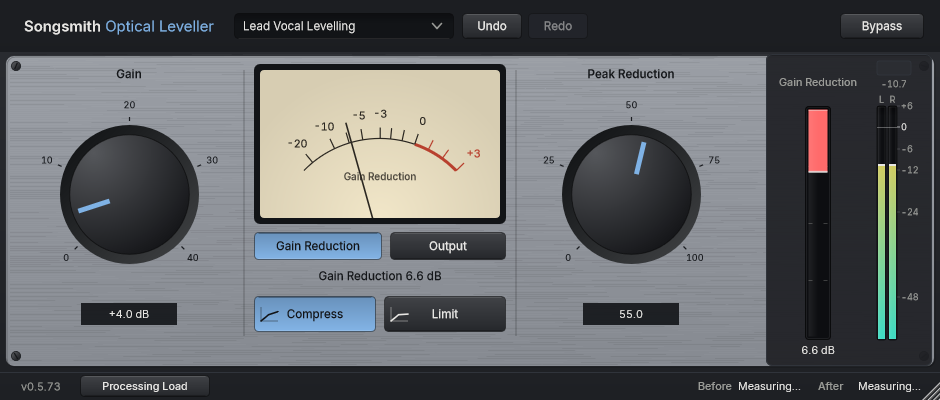
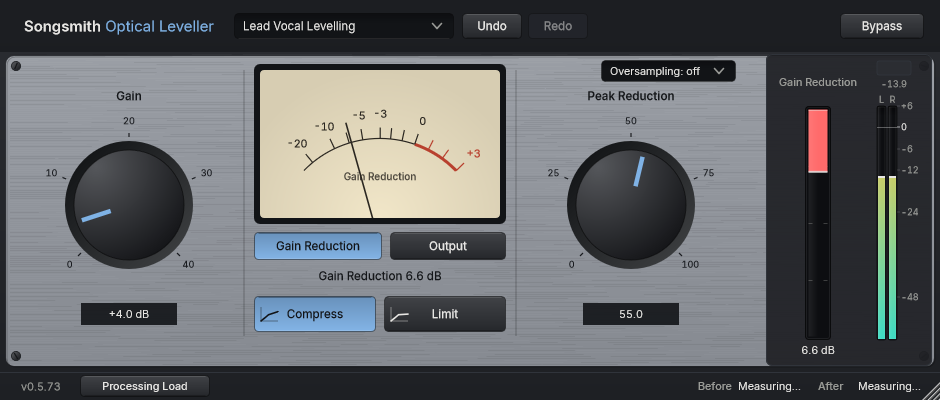
Optical Leveller: working Oversampling (Off, 2x, 4x) with reported latency (songsmithstudio#19)

diff --git a/optical-leveller/Source/PluginProcessor.cpp b/optical-leveller/Source/PluginProcessor.cpp
@@ -18,8 +18,9 @@ SongsmithOpticalLevellerProcessor::SongsmithOpticalLevellerProcessor()
     peakReductionRaw = apvts.getRawParameterValue (Opt::peakReductionId);
     gainRaw          = apvts.getRawParameterValue (Opt::gainId);
     modeRaw          = apvts.getRawParameterValue (Opt::modeId);
+    oversamplingRaw  = apvts.getRawParameterValue (Opt::oversamplingId);
     bypassParam      = dynamic_cast<juce::AudioParameterBool*> (apvts.getParameter (Opt::bypassId));
-    jassert (peakReductionRaw && gainRaw && modeRaw && bypassParam);
+    jassert (peakReductionRaw && gainRaw && modeRaw && oversamplingRaw && bypassParam);
 
     dryBuffer.setSize (2, 512, false, true);   // resized in prepareToPlay
 }
@@ -40,6 +41,9 @@ juce::AudioProcessorValueTreeState::ParameterLayout SongsmithOpticalLevellerProc
 
     layout.add (std::make_unique<juce::AudioParameterChoice> (
         juce::ParameterID { Opt::modeId, 1 }, "Mode", Opt::modeNames(), Opt::defaultMode));
+
+    layout.add (std::make_unique<juce::AudioParameterChoice> (
+        juce::ParameterID { Opt::oversamplingId, 2 }, "Oversampling", Opt::oversamplingNames(), Opt::defaultOversampling));
 
     layout.add (std::make_unique<juce::AudioParameterBool> (
         juce::ParameterID { Opt::bypassId, 1 }, "Bypass", false));
@@ -75,14 +79,51 @@ void SongsmithOpticalLevellerProcessor::prepareToPlay (double sampleRate, int sa
     bypassMix.reset (sampleRate, bypassFadeSeconds);
     bypassMix.setCurrentAndTargetValue (bypassParam->get() ? 1.0f : 0.0f);
 
-    engine.setParams (getEngineParams());
-    engine.prepare (sampleRate);
+    baseRate = sampleRate;
+    using OS = juce::dsp::Oversampling<float>;
+    for (size_t k = 1; k < oversamplers.size(); ++k)
+    {
+        if (oversamplers[k] == nullptr)
+            oversamplers[k] = std::make_unique<OS> ((size_t) SongsmithOptical::Engine::maxChannels, k, OS::filterHalfBandPolyphaseIIR, true, true);
+        oversamplers[k]->initProcessing ((size_t) dryBuffer.getNumSamples());
+        oversamplers[k]->reset();
+        osLatency[k] = juce::roundToInt (oversamplers[k]->getLatencyInSamples());
+    }
+    dryRing.setSize (2, juce::jmax (osLatency[1], osLatency[2]) + 1, false, true, true);
+    pathFade.reset (sampleRate, pathFadeSeconds);
+    pathFade.setCurrentAndTargetValue (1.0f);
+    switchPath (getOversamplingIndex());
     engine.setParams (getEngineParams());
     gainReductionDb.store (0.0f);
     outputMs.store (0.0f);
     outputMeter.channels.store (juce::jlimit (1, (int) Songsmith::UI::OutputMeterState::maxChannels, getMainBusNumOutputChannels()), std::memory_order_relaxed);
     outputMeter.resetLatch (sampleRate);   // a new session or layout starts without a warning
-    setLatencySamples (0);
+    updateLatencyNow();
+    startTimerHz (10);   // reports a changed latency to the host from the message thread, never the audio thread
+}
+
+SongsmithOpticalLevellerProcessor::~SongsmithOpticalLevellerProcessor()
+{
+    stopTimer();
+}
+
+void SongsmithOpticalLevellerProcessor::updateLatencyNow()
+{
+    const int latency = osLatency[(size_t) getOversamplingIndex()];
+    if (getLatencySamples() != latency)
+        setLatencySamples (latency);   // told to the host whenever it changes
+}
+
+// Switches the engine to the rate of an Oversampling setting. Allocation-free: only coefficients are re-derived.
+void SongsmithOpticalLevellerProcessor::switchPath (int index) noexcept
+{
+    engine.prepare (baseRate * (double) (1 << index));
+    engine.setParams (getEngineParams());
+    if (index > 0)
+        oversamplers[(size_t) index]->reset();
+    dryRing.clear();
+    dryRingPos = 0;
+    osActive = index;
 }
 
 void SongsmithOpticalLevellerProcessor::processBlock (juce::AudioBuffer<float>& buffer, juce::MidiBuffer&)
@@ -112,14 +153,71 @@ void SongsmithOpticalLevellerProcessor::processBlock (juce::AudioBuffer<float>& 
 
         float* ch[SongsmithOptical::Engine::maxChannels] = {};
         for (int c = 0; c < numCh; ++c)
-        {
             ch[c] = buffer.getWritePointer (c, pos);
-            juce::FloatVectorOperations::copy (dryBuffer.getWritePointer (c), ch[c], num);   // the dry signal, for bypass
+
+        // Oversampling change: fade out, switch once silent, fade back in (no clicks, nothing allocated).
+        const int wantOS = getOversamplingIndex();
+        if (wantOS != osActive)
+        {
+            if (! pathFade.isSmoothing() && pathFade.getCurrentValue() <= 0.0f)
+            {
+                switchPath (wantOS);
+                pathFade.setTargetValue (1.0f);
+            }
+            else
+            {
+                pathFade.setTargetValue (0.0f);
+            }
         }
 
+        // The dry signal for Bypass, delayed by the path's latency so it lines up with the processed one.
+        const int latency = osLatency[(size_t) osActive];
+        for (int c = 0; c < numCh; ++c)
+        {
+            auto* d = dryBuffer.getWritePointer (c);
+            if (latency == 0)
+            {
+                juce::FloatVectorOperations::copy (d, ch[c], num);
+                continue;
+            }
+            auto* ring = dryRing.getWritePointer (c);
+            const int size = dryRing.getNumSamples();
+            int w = dryRingPos;
+            for (int i = 0; i < num; ++i)
+            {
+                d[i] = ring[(w - latency + size) % size];
+                ring[w] = ch[c][i];
+                w = (w + 1) % size;
+            }
+        }
+        if (latency > 0)
+            dryRingPos = (dryRingPos + num) % dryRing.getNumSamples();
+
         // The engine always runs, even when bypassed, so un-bypassing never glitches.
-        engine.process (ch, numCh, num);
+        if (osActive == 0)
+        {
+            engine.process (ch, numCh, num);
+        }
+        else
+        {
+            auto& os = *oversamplers[(size_t) osActive];
+            juce::dsp::AudioBlock<float> block (ch, (size_t) numCh, (size_t) num);
+            auto up = os.processSamplesUp (block);
+            float* upCh[SongsmithOptical::Engine::maxChannels] = {};
+            for (int c = 0; c < numCh; ++c)
+                upCh[c] = up.getChannelPointer ((size_t) c);
+            engine.process (upCh, numCh, (int) up.getNumSamples());
+            os.processSamplesDown (block);
+        }
         reduction = juce::jmax (reduction, engine.readMaxReductionDb());
+
+        if (pathFade.isSmoothing() || pathFade.getTargetValue() < 1.0f)
+            for (int i = 0; i < num; ++i)
+            {
+                const float g = pathFade.getNextValue();
+                for (int c = 0; c < numCh; ++c)
+                    ch[c][i] *= g;
+            }
 
         if (bypassMix.isSmoothing())
         {

diff --git a/optical-leveller/Tests/OpticalLevellerTests.cpp b/optical-leveller/Tests/OpticalLevellerTests.cpp
@@ -112,8 +112,9 @@ public:
                 { "gain", 0.0f, 40.0f, 1.0f, "Gain" },
                 { "mode", 0.0f, 1.0f, 0.0f, "Mode" },
                 { "bypass", 0.0f, 1.0f, 0.0f, "Bypass" },
+                { "oversampling", 0.0f, 2.0f, 0.0f, "Oversampling" },
             };
-            expectEquals (p.getParameters().size(), (int) std::size (rows), "four parameters, no more");
+            expectEquals (p.getParameters().size(), (int) std::size (rows), "five parameters, no more");
             for (const auto& r : rows)
             {
                 auto* rp = dynamic_cast<juce::RangedAudioParameter*> (p.apvts.getParameter (r.id));
@@ -249,6 +250,57 @@ public:
             auto xml = a.createState().createXml();
             expect (xml->getChildByName ("UI") != nullptr, "the editor settings are saved");
             expectEquals (a.createState().getProperty ("stateVersion", 0).operator int(), SongsmithOpticalLevellerProcessor::stateVersion);
+        }
+
+        beginTest ("Oversampling is real processing, reports its latency, and is Off by default (songsmithstudio#19)");
+        {
+            const double fs = 48000.0;
+            const int n = 48000;
+            std::vector<float> sine ((size_t) n);
+            for (int i = 0; i < n; ++i)
+                sine[(size_t) i] = 0.5f * std::sin (juce::MathConstants<float>::twoPi * 1000.0f * (float) i / (float) fs);
+
+            SongsmithOpticalLevellerProcessor off;
+            expectEquals (off.getOversamplingIndex(), 0, "Off by default");
+            setParam (off, Opt::peakReductionId, 80.0f);
+            prepare (off, fs, 512);
+            expectEquals (off.getLatencySamples(), 0, "Off adds no delay");
+            const auto outOff = run (off, { sine, sine }, 512);
+
+            for (int mode : { 1, 2 })
+            {
+                SongsmithOpticalLevellerProcessor on;
+                setParam (on, Opt::peakReductionId, 80.0f);
+                setParam (on, Opt::oversamplingId, (float) mode);
+                prepare (on, fs, 512);
+                const int latency = on.getOversamplingLatency (mode);
+                expectGreaterThan (latency, 0, "a real filter has some delay");
+                expectEquals (on.getLatencySamples(), latency, "the host is told the delay");
+                const auto out = run (on, { sine, sine }, 512);
+                expect (out[0] != outOff[0], "it is not the same processing as Off");
+                const float ratioDb = juce::Decibels::gainToDecibels (rms (out[0], 24000) / rms (outOff[0], 24000));
+                expectLessThan (std::abs (ratioDb), 1.0f, "the levelling is the same to within 1 dB (" + juce::String (mode) + ")");
+                expect (std::all_of (out[0].begin(), out[0].end(), [] (float v) { return std::isfinite (v) && std::abs (v) < 4.0f; }), "clean");
+
+                // Bypassed, the dry sound comes back exactly, delayed by the same amount.
+                setParam (on, Opt::bypassId, 1.0f);
+                const auto settle = run (on, { sine, sine }, 512);
+                const auto dry = run (on, { sine, sine }, 512);
+                bool aligned = true;
+                for (int i = latency; i < n; ++i)
+                    aligned = aligned && std::abs (dry[0][(size_t) i] - sine[(size_t) (i - latency)]) < 1.0e-6f;
+                expect (aligned, "bypassed: the dry signal, delayed to line up (" + juce::String (mode) + ")");
+                (void) settle;
+            }
+
+            // A session saved before Oversampling existed (no such parameter) loads with Off.
+            SongsmithOpticalLevellerProcessor p;
+            setParam (p, Opt::oversamplingId, 2.0f);
+            juce::ValueTree old (p.apvts.state.getType());
+            old.appendChild (juce::ValueTree ("PARAM", { { "id", Opt::gainId }, { "value", 5.0f } }), nullptr);
+            p.restoreFromValueTree (old);
+            expectEquals (p.getOversamplingIndex(), 0, "an older session loads with Oversampling off");
+            expectWithinAbsoluteError (getParam (p, Opt::gainId), 5.0f, 1.0e-4f);
         }
 
         beginTest ("Older, partial, damaged and out-of-range saved state loads safely");

diff --git a/optical-leveller/Source/PluginProcessor.h b/optical-leveller/Source/PluginProcessor.h
@@ -1,6 +1,9 @@
 #pragma once
 
 #include <juce_audio_processors/juce_audio_processors.h>
+#include <juce_dsp/juce_dsp.h>
+#include <array>
+#include <memory>
 #include "OptParams.h"
 #include "OptPresets.h"
 #include "OpticalEngine.h"
@@ -9,17 +12,23 @@
 #include "../../shared/Source/SongsmithHeader.h"
 #include "../../shared/Source/SongsmithOutputMeter.h"
 
-class SongsmithOpticalLevellerProcessor : public juce::AudioProcessor
+class SongsmithOpticalLevellerProcessor : public juce::AudioProcessor, private juce::Timer
 {
 public:
     // Saved-state format. 1 = Peak Reduction, Gain, Compress or Limit, Bypass, and the editor's width, meter and preset name.
+    // 2 = adds Oversampling (a session saved as 1 loads with Off, as it always sounded).
     // Bump it when the meaning of saved data changes, and migrate in restoreFromValueTree().
-    static constexpr int stateVersion = 1;
+    static constexpr int stateVersion = 2;
 
     SongsmithOpticalLevellerProcessor();
+    ~SongsmithOpticalLevellerProcessor() override;
 
     void prepareToPlay (double sampleRate, int samplesPerBlock) override;
     void releaseResources() override {}
+    // Latency of an Oversampling setting (0 = Off, 1 = 2x, 2 = 4x), in samples, valid after prepareToPlay.
+    int getOversamplingLatency (int index) const noexcept { return osLatency[(size_t) juce::jlimit (0, 2, index)]; }
+    int getActiveOversamplingIndex() const noexcept { return osActive; }
+    int getOversamplingIndex() const noexcept { return juce::jlimit (0, 2, (int) oversamplingRaw->load()); }   // the setting
     void reset() override { engine.reset(); }
     bool isBusesLayoutSupported (const BusesLayout& layouts) const override;
     void processBlock (juce::AudioBuffer<float>&, juce::MidiBuffer&) override;
@@ -89,13 +98,27 @@ private:
     std::atomic<float>* peakReductionRaw = nullptr;
     std::atomic<float>* gainRaw = nullptr;
     std::atomic<float>* modeRaw = nullptr;
+    std::atomic<float>* oversamplingRaw = nullptr;
+
+    // Oversampling: the engine runs at 2x or 4x the host rate. Half-band polyphase IIR stages, with whole-sample latency.
+    void switchPath (int index) noexcept;
+    void updateLatencyNow();
+    void timerCallback() override { updateLatencyNow(); }
+    std::array<std::unique_ptr<juce::dsp::Oversampling<float>>, 3> oversamplers;   // [1] = 2x, [2] = 4x
+    std::array<int, 3> osLatency { 0, 0, 0 };
+    int osActive = 0;
+    double baseRate = 44100.0;
+    juce::AudioBuffer<float> dryRing;   // the dry signal delayed by the latency, for Bypass
+    int dryRingPos = 0;
+    juce::SmoothedValue<float, juce::ValueSmoothingTypes::Linear> pathFade { 1.0f };   // fades out and back in around a switch
+    static constexpr double pathFadeSeconds = 0.01;
 
     SongsmithOptical::Engine engine;
     int currentProgram = 0;
 
     std::atomic<float> gainReductionDb { 0.0f }, outputMs { 0.0f };
 
-    // Bypass: a short linear cross-fade between the processed and the dry signal. No latency, so the dry signal needs no delay.
+    // Bypass: a short linear cross-fade between the processed and the dry signal (delayed by the Oversampling latency).
     juce::SmoothedValue<float, juce::ValueSmoothingTypes::Linear> bypassMix { 0.0f };   // 1 = fully bypassed
     juce::AudioBuffer<float> dryBuffer;
 

diff --git a/optical-leveller/Source/PluginEditor.cpp b/optical-leveller/Source/PluginEditor.cpp
@@ -20,11 +20,12 @@ namespace
     }
 
     // Layout, in design units (EditorLayout::designWidth x EditorLayout::designHeight).
-    const juce::Rectangle<int> gainArea           { 24, 64, 210, 262 };
+    const juce::Rectangle<int> gainArea           { 24, 86, 210, 240 };   // below the Oversampling dropdown's row (songsmithstudio#19)
     const juce::Rectangle<int> meterArea          { 254, 64, 252, 160 };
     const juce::Rectangle<int> meterModes         { 254, 232, 252, 28 };
     const juce::Rectangle<int> modeArea           { 254, 296, 252, 36 };
-    const juce::Rectangle<int> peakReductionArea  { 526, 64, 210, 262 };
+    const juce::Rectangle<int> peakReductionArea  { 526, 86, 210, 240 };
+    constexpr int oversamplingRight = 526 + 210, oversamplingTop = 60, oversamplingHeight = 22;   // top-right of the controls, left of the Output panel
 
     const char* const compressTip = "Compress: gentle, smooth levelling. A good starting point for most vocals, bass and guitars.";
     const char* const limitTip = "Limit: much firmer control that flattens the loudest sound harder than Compress. It is a stronger setting of the same smooth action, not a hard ceiling. Useful for drums and very uneven playing; "
@@ -193,6 +194,14 @@ SongsmithOpticalLevellerEditor::SongsmithOpticalLevellerEditor (SongsmithOptical
         content.addAndMakeVisible (modeButtons[(size_t) i]);
     }
 
+    for (int i = 0; i < Opt::oversamplingNames().size(); ++i)
+        oversamplingBox.addItem (Songsmith::UI::Dropdown::oversamplingText (i), i + 1);
+    oversamplingBox.setTitle ("Oversampling");
+    oversamplingBox.setTooltip ("Oversampling: runs the leveller at two or four times the sample rate inside the plugin, so fast level changes are followed more precisely. "
+                                "Off is how earlier versions sounded. It uses more processing power and adds a little delay, which the plugin tells your recording program about. Nothing to do unless you want it.");
+    oversamplingAttachment = std::make_unique<juce::AudioProcessorValueTreeState::ComboBoxAttachment> (p.apvts, oversamplingId, oversamplingBox);
+    content.addAndMakeVisible (oversamplingBox);
+
     bypassButton.setClickingTogglesState (true);
     bypassButton.setTooltip ("Bypass: the sound passes through untouched");
     bypassButton.setTitle ("Bypass");
@@ -323,6 +332,10 @@ void SongsmithOpticalLevellerEditor::layoutContent()
     undoButton.setBounds (header.undo);
     redoButton.setBounds (header.redo);
     bypassButton.setBounds (header.bypass);
+    {   // Oversampling: the suite-standard dropdown at the top-right of the controls, beside the Output meters.
+        const int right = Songsmith::UI::Dropdown::place (oversamplingBox, 0, oversamplingTop, oversamplingHeight);
+        oversamplingBox.setTopLeftPosition (oversamplingRight - right, oversamplingTop);
+    }
 
     diagnostics->setBounds (0, contentHeight, designWidth, footerHeight);
 }

diff --git a/optical-leveller/Source/PluginEditor.h b/optical-leveller/Source/PluginEditor.h
@@ -4,6 +4,7 @@
 #include "PluginProcessor.h"
 #include "OptLookAndFeel.h"
 #include "OptMeter.h"
+#include "../../shared/Source/SongsmithDropdown.h"
 #include "../../shared/Source/SongsmithGuidance.h"
 #include "../../shared/Source/SongsmithMeterColumn.h"
 
@@ -66,6 +67,7 @@ public:
     juce::Button& getRedoButton() noexcept { return redoButton; }
     juce::Button& getBypassButton() noexcept { return bypassButton; }
     juce::ComboBox& getPresetBox() noexcept { return presetBox; }
+    juce::ComboBox& getOversamplingBox() noexcept { return oversamplingBox; }
     juce::Rectangle<int> getTitleBounds() const noexcept { return titleBounds; }
     float getContentScale() const noexcept { return (float) getWidth() / (float) Opt::EditorLayout::designWidth; }
     juce::Component& getTitleHint() noexcept { return titleHint; }
@@ -124,6 +126,8 @@ private:
 
     juce::TextButton undoButton { "Undo" }, redoButton { "Redo" };
     juce::ComboBox presetBox;
+    juce::ComboBox oversamplingBox;   // songsmithstudio#19: Off, 2x or 4x, in the title bar left of Bypass
+    std::unique_ptr<juce::AudioProcessorValueTreeState::ComboBoxAttachment> oversamplingAttachment;
     juce::TooltipWindow tooltips { this, 600 };
 
     // Latency and the optional Processing Load readout, in the strip below the controls.

diff --git a/optical-leveller/Source/OptParams.h b/optical-leveller/Source/OptParams.h
@@ -15,12 +15,15 @@ namespace Opt
     inline constexpr const char* gainId          = "gain";             // dB
     inline constexpr const char* modeId          = "mode";             // 0 = Compress, 1 = Limit
     inline constexpr const char* bypassId        = "bypass";           // the host's native bypass
+    inline constexpr const char* oversamplingId  = "oversampling";     // 0 = Off, 1 = 2x, 2 = 4x (version 2; songsmithstudio#19)
 
     // --- Defaults: a gentle, useful starting point that leaves the level where it was --------------------
     constexpr float defaultPeakReduction = 40.0f, defaultGainDb = 1.0f;
     constexpr int defaultMode = 0;   // Compress
 
     inline juce::StringArray modeNames() { return { "Compress", "Limit" }; }
+    inline juce::StringArray oversamplingNames() { return { "Off", "2x", "4x" }; }
+    constexpr int defaultOversampling = 0;   // Off: as every session saved before it existed sounded, and no delay
 
     // The meter: 0 = Gain Reduction, 1 = Output (0 on the scale at -18 dBFS, like the LA-2A's +4 position).
     inline juce::String meterModeName (int mode) { return mode == 0 ? "Gain Reduction" : "Output"; }
